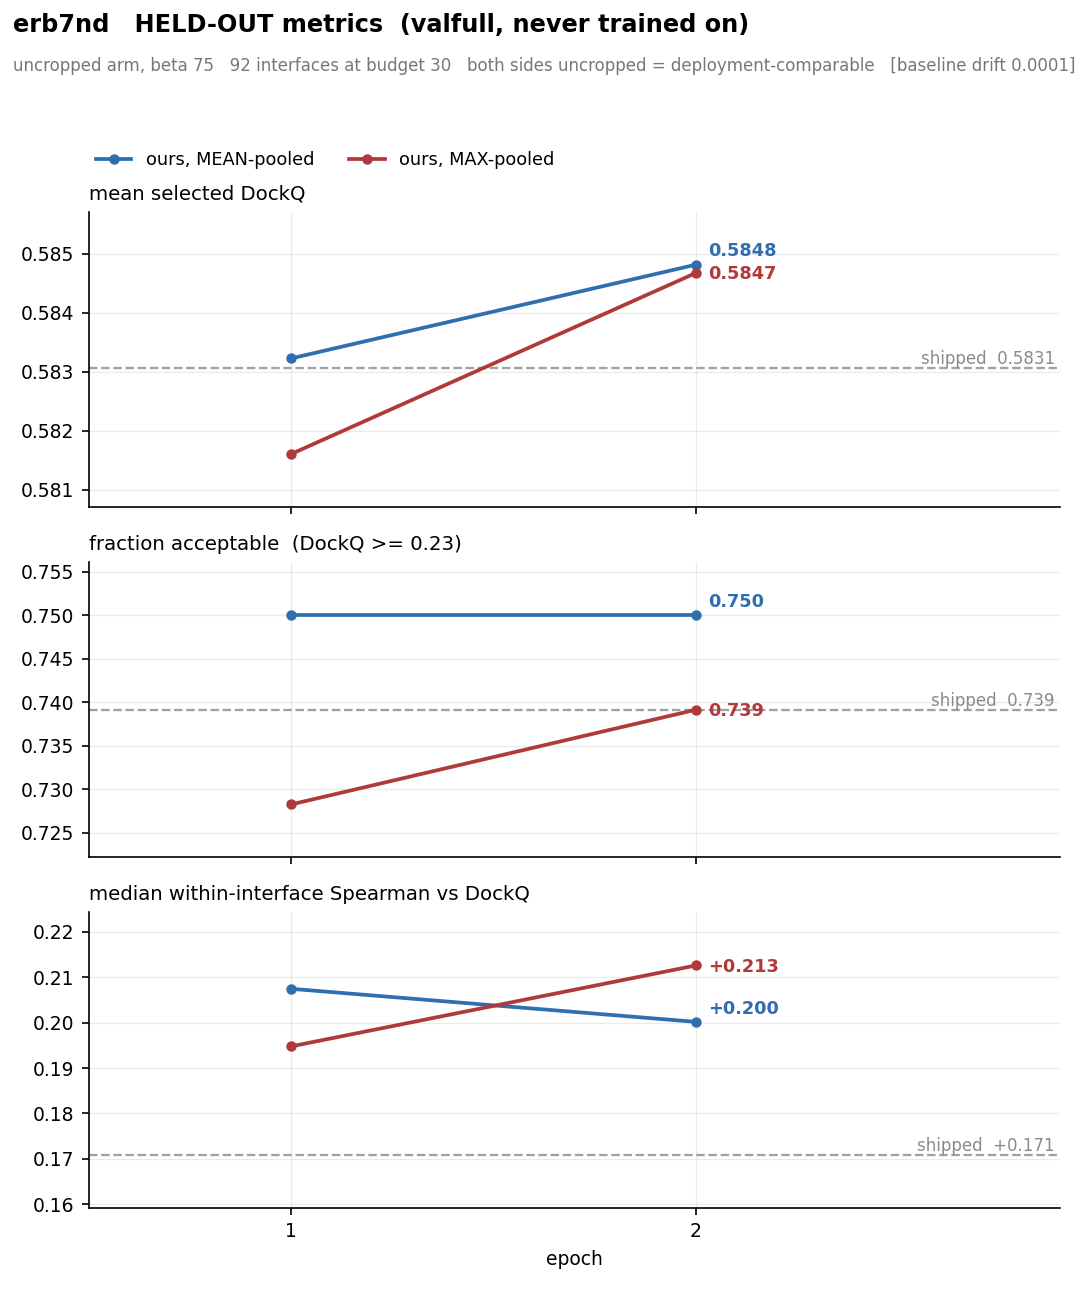
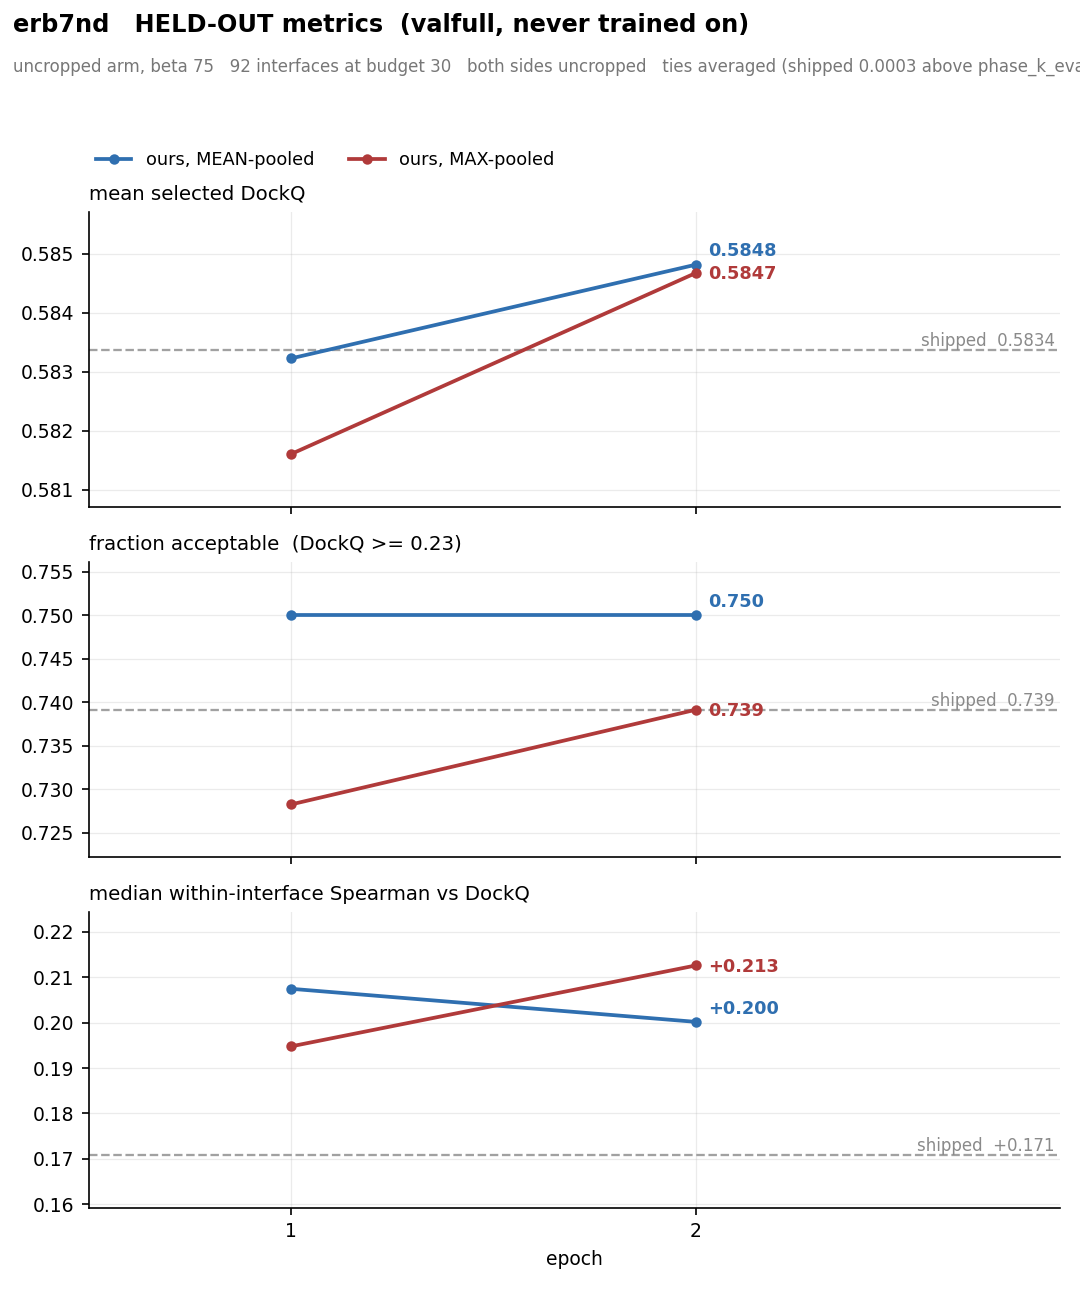
the shipped baseline no longer depends on which order a glob returned three files
BEFORE   ep1 shipped 0.5830   ep2 shipped 0.5831
  AFTER    ep1 shipped 0.5834   ep2 shipped 0.5834

THE EVALUATOR WAS NEVER WRONG, which I checked before changing anything:
phase_k_eval._pick breaks ties with max(v, key=(score, -seed, -sample)), which
is deterministic and order-independent, and reproducing that rule from the rows
gives 0.583120 at BOTH epochs. The drift was entirely in the plotting path's
plain max(), which returns whichever tied pose the list happens to hold first --
and the list order follows a glob over three shard files.

HOW MUCH IT MATTERED, measured rather than assumed: 11 of 92 interfaces have a
tie at the top for the shipped head, largest tied set 3. OUR predictions are
full-precision floats and tie 0 of 92. So this only ever moved the baseline --
which is the one series that must not move, since it is a fixed head on fixed
candidates.

THE RULE: if a selector gives k poses the same best score it has expressed no
preference, so the honest number is the expectation under a uniform choice --
the mean DockQ over the tied set, and the fraction of that set acceptable. With
no tie it reduces exactly to max(), so nothing changes where nothing was
ambiguous. A deterministic index tie-break would also be reproducible and would
be wrong in a specific direction: on a tie between a 0.9 and a 0.1 pose it
reports whichever the file order favours, where the expectation reports 0.5 --
what that selector is actually worth.
[…]

diff --git a/extra_training/run_logging/select_tied.py b/extra_training/run_logging/select_tied.py
@@ -1,0 +1,70 @@
+#!/usr/bin/env python
+"""Selected DockQ when the selector CANNOT SEPARATE the top poses, resolved without a sort.
+
+THE PROBLEM. `max(poses, key=score)` returns whichever tied pose comes first in the list, so the
+answer depends on row order -- which here follows the order a glob returned three shard files.
+stored_iptm is recorded at FOUR DECIMAL PLACES, so ties are routine rather than exotic: the
+shipped baseline moved by 0.0001 between two epochs that scored the identical candidates with the
+identical fixed head, which is impossible and was purely the tie-break changing.
+
+THE RULE. If a selector gives k poses the same best score it has expressed no preference among
+them, so the honest number is the EXPECTED one under a uniform choice: the MEAN DockQ over the
+tied set, and the FRACTION of the tied set that is acceptable. With no tie (k=1) both reduce
+exactly to the old behaviour, so nothing changes where nothing was ambiguous.
+
+WHY NOT A DETERMINISTIC TIE-BREAK, e.g. lowest (seed, sample). It would also be reproducible, and
+it would be WRONG in a specific direction: it credits the selector with a choice it did not make.
+On a tie between a 0.9 and a 0.1 pose, picking by index reports whichever the file order favours;
+the expectation reports 0.5, which is what that selector is actually worth.
+
+IT DISAGREES WITH phase_k_eval BY DESIGN, and the difference is small and must be stated.
+phase_k_eval._pick breaks ties with max(v, key=(score, -seed, -sample)) -- also deterministic,
+also order-independent, and therefore NOT the bug this fixes. On erb7nd's valfull pool the two
+rules give a shipped baseline of 0.5831 (evaluator) and 0.5834 (expectation) -- 0.0003 apart, from
+11 tied interfaces of 92. The expectation is the unbiased one; the evaluator's rule credits the
+shipped head with a choice it did not make. The evaluator is left alone for now because its
+numbers are the ones paper_results quotes, so changing it mid-project would silently move
+published figures; a figure that uses this helper should say which rule it used.
+
+EXACT COMPARISON IS INTENDED. Scores are compared with ==, not a tolerance: these are the stored
+4dp values, and two poses that round to the same printed number ARE indistinguishable to anything
+reading that column.
+"""
+
+
+def expected_pick(poses, score_idx, dq_idx, acc=0.23):
+    """(expected DockQ, expected acceptable) over the poses tied at the best score.
+
+    `poses` is any sequence of tuples; `score_idx` selects the score, `dq_idx` the DockQ.
+    """
+    if not poses:
+        raise ValueError("expected_pick on an empty candidate set")
+    best = max(p[score_idx] for p in poses)
+    tied = [p[dq_idx] for p in poses if p[score_idx] == best]
+    n = len(tied)
+    return sum(tied) / n, sum(1.0 for d in tied if d >= acc) / n
+
+
+def tie_report(by_iface, score_idx, keep=None):
+    """(n_interfaces_with_a_tie, largest_tied_set) -- so a caller can SAY how much this mattered."""
+    n_tied, worst = 0, 1
+    for i in (keep if keep is not None else by_iface):
+        v = by_iface[i]
+        best = max(p[score_idx] for p in v)
+        k = sum(1 for p in v if p[score_idx] == best)
+        if k > 1:
+            n_tied += 1
+            worst = max(worst, k)
+    return n_tied, worst
+
+
+if __name__ == "__main__":
+    # the behaviour this exists to pin, checked without any data on disk
+    rows = [(0.5000, 0.9), (0.5000, 0.1), (0.4999, 1.0)]
+    dq, ac = expected_pick(rows, 0, 1)
+    assert abs(dq - 0.5) < 1e-12, dq
+    assert abs(ac - 0.5) < 1e-12, ac
+    assert expected_pick(list(reversed(rows)), 0, 1) == (dq, ac), "order changed the answer"
+    one = [(0.7, 0.8), (0.1, 0.2)]
+    assert expected_pick(one, 0, 1) == (0.8, 1.0), "no-tie case must reduce to max()"
+    print("  ok: ties average, order does not matter, the no-tie case is unchanged")

diff --git a/extra_training/run_logging/plot_val_series.py b/extra_training/run_logging/plot_val_series.py
@@ -36,6 +36,7 @@ from matplotlib.ticker import MaxNLocator
 ROOT = os.path.dirname(os.path.dirname(os.path.abspath(__file__)))
 sys.path.insert(0, os.path.join(ROOT, "run_logging"))
 import eval_dirs                                                             # noqa: E402
+import select_tied                                                           # noqa: E402
 import plot_three                                                            # noqa: E402
 
 RID = sys.argv[1] if len(sys.argv) > 1 else "erb7nd"
@@ -90,9 +91,13 @@ for ep in sorted(dirs):
     eps.append(ep)
     S["n"].append(len(keep))
     for tag, j in (("max", 0), ("mean", 1), ("ship", 2)):
-        dq = np.array([max(g[i], key=lambda t: t[j])[3] for i in keep])
+        # TIES AVERAGED, NOT SORTED THROUGH. stored_iptm is 4dp, so poses tie; max() would pick by
+        # row order, which follows the shard glob -- and moved the FIXED shipped baseline by
+        # 0.0001 between epochs scoring identical candidates.
+        picked = [select_tied.expected_pick(g[i], j, 3, ACC) for i in keep]
+        dq = np.array([x[0] for x in picked])
         S[f"{tag}_dq"].append(float(dq.mean()))
-        S[f"{tag}_fa"].append(float((dq >= ACC).mean()))
+        S[f"{tag}_fa"].append(float(np.mean([x[1] for x in picked])))
         S[f"{tag}_rho"].append(float(np.median(
             [spearman([p[j] for p in g[i]], [p[3] for p in g[i]]) for i in keep])))
 
@@ -145,7 +150,7 @@ axes[-1].set_xlabel("epoch")
 fig.suptitle(f"{RID}   HELD-OUT metrics  (valfull, never trained on)", x=0.012, y=0.990,
              ha="left", fontsize=11.5, fontweight="bold", va="top")
 fig.text(0.012, 0.9555, f"uncropped arm, beta 75   {S['n'][-1]} interfaces at budget 30   "
-         f"both sides uncropped = deployment-comparable"
+         f"both sides uncropped   ties averaged (shipped 0.0003 above phase_k_eval's rule)"
          + (f"   [baseline drift {drift:.4f}]" if drift > 1e-6 else ""),
          ha="left", va="top", fontsize=8, color="#777777")
 fig.tight_layout(rect=[0, 0, 1, 0.938])

diff --git a/extra_training/run_logging/plot_rel_bars.py b/extra_training/run_logging/plot_rel_bars.py
@@ -59,6 +59,7 @@ OUT = None      # set after ONLY is parsed
 # epoch numbering, so globbing RID alone would silently drop every eval point from before a pause.
 sys.path.insert(0, os.path.join(ROOT, "run_logging"))
 import plot_three                                                            # noqa: E402
+import select_tied                                                           # noqa: E402
 RUNS = [os.path.join(ROOT, "training", "runs", r) for r in plot_three.run_chain(RID)]
 RUN = RUNS[-1]
 
@@ -100,7 +101,9 @@ for dd in dirs:
     g_, fl_, kp_ = load(dd)
     if not kp_:
         continue
-    pk = lambda j: np.array([max(g_[i], key=lambda t: t[j])[3] for i in kp_])  # noqa: E731
+    # TIES AVERAGED -- see run_logging/select_tied.py.
+    pk = lambda j: np.array(  # noqa: E731
+        [select_tied.expected_pick(g_[i], j, 3)[0] for i in kp_])
     ALL.append((e_, dd, float(pk(1).mean()), float(pk(0).mean()), float(pk(2).mean()), len(kp_)))
 if not ALL:
     sys.exit("  no eval epoch has a complete candidate set with both columns")
@@ -109,7 +112,8 @@ ep = int(re.search(r"ep(\d+)$", d).group(1))
 
 by, full, keep = load(d)
 n = len(keep)
-pick = lambda j: np.array([max(by[i], key=lambda t: t[j])[3] for i in keep])  # noqa: E731
+pick = lambda j: np.array(  # noqa: E731
+    [select_tied.expected_pick(by[i], j, 3)[0] for i in keep])
 # THE SHIPPED BAR SAYS "MAX" IN ITS OWN LABEL, in every figure. A footnote on one figure is not
 # enough: the comparison is shipped-MAX against ours-MEAN there, and a reader scanning the bars
 # should not have to find the note to know that. Nothing has ever run the shipped head with

diff --git a/extra_training/run_logging/plot_rel_heldout.py b/extra_training/run_logging/plot_rel_heldout.py
@@ -41,6 +41,7 @@ from matplotlib.ticker import MaxNLocator
 ROOT = os.path.dirname(os.path.dirname(os.path.abspath(__file__)))
 sys.path.insert(0, os.path.join(ROOT, "run_logging"))
 import eval_dirs                                                             # noqa: E402
+import select_tied                                                           # noqa: E402
 RID = sys.argv[1] if len(sys.argv) > 1 else "o2qczq"
 OUT = sys.argv[2] if len(sys.argv) > 2 else f"figures/rel_heldout_{RID}.png"
 RUN = os.path.join(ROOT, "training", "runs", RID)
@@ -74,7 +75,9 @@ for ep_, d in sorted(eval_dirs.shard_dirs(RUN).items()):
     if len(keep) < 10:
         continue
     have_mean = all(all(x[1] is not None for x in by[i]) for i in keep)
-    pick = lambda j: np.array([max(by[i], key=lambda t: t[j])[3] for i in keep])  # noqa: E731
+    # TIES AVERAGED -- see run_logging/select_tied.py. max() resolved them by row order.
+    pick = lambda j: np.array(  # noqa: E731
+        [select_tied.expected_pick(by[i], j, 3)[0] for i in keep])
     base = pick(2)
     mx = pick(0)
     mn = pick(1) if have_mean else None
